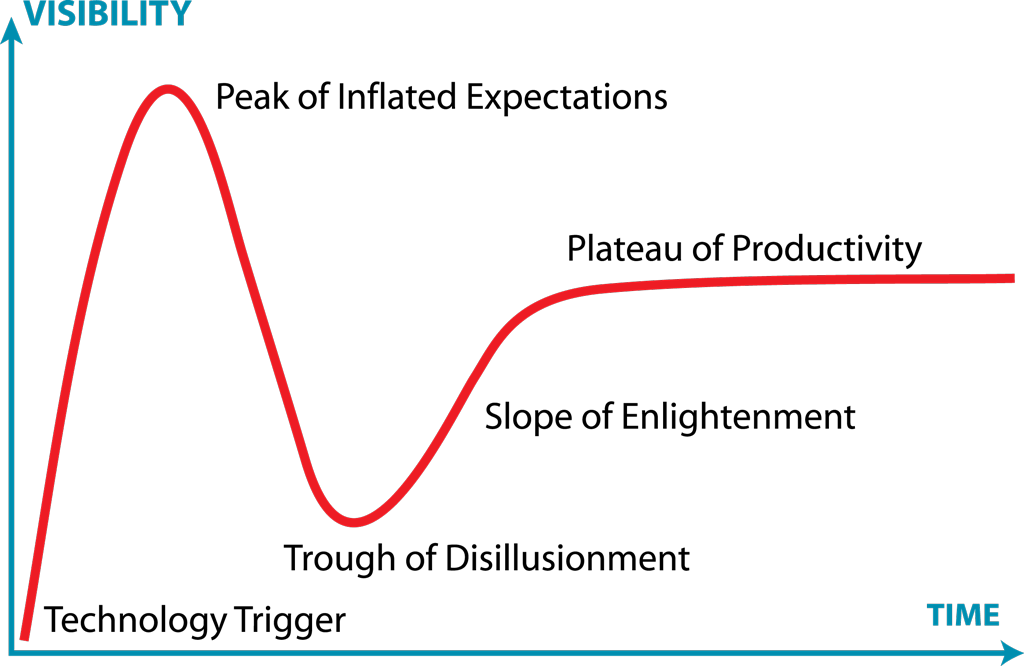
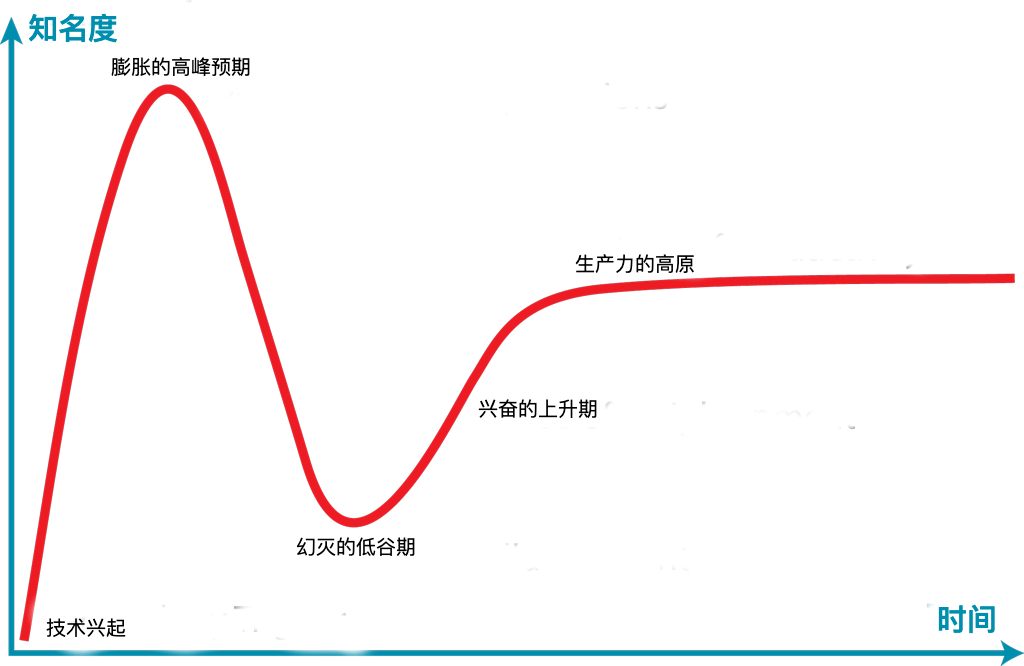
docs: edit gartner_hype_cycle.png

diff --git a/README.md b/README.md
@@ -118,7 +118,7 @@ _(图片来源: By Daniels220 at English Wikipedia, Creative Commons Attribution
 >
 > (罗伊阿马拉)
 
-技术成熟度曲线是[高德纳咨询公司](https://zh.wikipedia.org/wiki/%E9%AB%98%E5%BE%B7%E7%BA%B3%E5%92%A8%E8%AF%A2%E5%85%AC%E5%8F%B8)最初制作的技术兴起和发展的直观表现。一图顶千言：
+技术成熟度曲线是[高德纳咨询公司](https://zh.wikipedia.org/wiki/%E9%AB%98%E5%BE%B7%E7%BA%B3%E5%92%A8%E8%AF%A2%E5%85%AC%E5%8F%B8)技术最初兴起和发展的直观表现。一图顶千言：
 
 ![The Hype Cycle](./images/gartner_hype_cycle.png)
 
